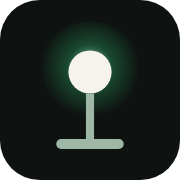
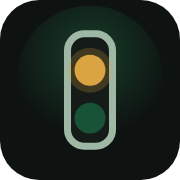
Rename to Standby + color-uniformity pass
- App identity is now "Standby": cue-light mark (amber standby lamp lit, green GO
  waiting) + Montserrat wordmark across welcome, sidebar, tab title, favicon,
  home-screen/PWA icons, manifest, feedback subject, calendar PRODID
- New shared components: Brand (mark + name) and a monochrome line-icon nav set
  (currentColor -> sage idle, emerald active), replacing the multicolor emoji nav
- Uniformity: group badges and calendar event-type colors harmonized into the
  favicon family (emerald / sage / teal / amber / olive); kept semantic colors
  (success, danger, warn) meaningful

Claude-Session: https://claude.ai/code/session_014L4J1Br48E1FFUTtkKHTks

diff --git a/src/components/icons.tsx b/src/components/icons.tsx
@@ -1,0 +1,105 @@
+/**
+ * Monochrome line-icon set for navigation — inherits `currentColor` so it
+ * tints with the nav state (sage when idle, emerald when active). Keeps the
+ * whole app in the favicon's restrained palette instead of full-color emoji.
+ */
+
+const P = {
+  stroke: 'currentColor',
+  strokeWidth: 1.7,
+  fill: 'none',
+  strokeLinecap: 'round' as const,
+  strokeLinejoin: 'round' as const,
+}
+
+export type IconName =
+  | 'hub'
+  | 'people'
+  | 'schedule'
+  | 'scenes'
+  | 'props'
+  | 'notes'
+  | 'script'
+  | 'cues'
+  | 'reports'
+  | 'settings'
+
+export function NavIcon({ name, size = 20 }: { name: IconName; size?: number }) {
+  return (
+    <svg width={size} height={size} viewBox="0 0 24 24" {...P} aria-hidden="true">
+      {ICONS[name]}
+    </svg>
+  )
+}
+
+const ICONS: Record<IconName, JSX.Element> = {
+  hub: (
+    <>
+      <rect x="3" y="3" width="7.5" height="7.5" rx="1.6" />
+      <rect x="13.5" y="3" width="7.5" height="7.5" rx="1.6" />
+      <rect x="3" y="13.5" width="7.5" height="7.5" rx="1.6" />
+      <rect x="13.5" y="13.5" width="7.5" height="7.5" rx="1.6" />
+    </>
+  ),
+  people: (
+    <>
+      <circle cx="9" cy="8" r="3.2" />
+      <path d="M3.5 19.5c0-3.1 2.5-5.3 5.5-5.3s5.5 2.2 5.5 5.3" />
+      <path d="M16.2 5.2a3 3 0 0 1 0 5.9" />
+      <path d="M17.5 14.4c2.2.5 3.9 2.3 3.9 5.1" />
+    </>
+  ),
+  schedule: (
+    <>
+      <rect x="3.5" y="5" width="17" height="15.5" rx="2.2" />
+      <path d="M3.5 9.5h17" />
+      <path d="M8 3v4M16 3v4" />
+    </>
+  ),
+  scenes: (
+    <>
+      <path d="M12 3.2 21 7.6l-9 4.4-9-4.4z" />
+      <path d="M3 12.2 12 16.6l9-4.4" />
+      <path d="M3 16.6 12 21l9-4.4" />
+    </>
+  ),
+  props: (
+    <>
+      <path d="M20.6 13.4 13 21a2 2 0 0 1-2.8 0l-6.7-6.7a2 2 0 0 1-.6-1.4V5.3a2 2 0 0 1 2-2h7.6a2 2 0 0 1 1.4.6l6.7 6.7a2 2 0 0 1 0 2.8z" />
+      <circle cx="7.7" cy="7.7" r="1.4" />
+    </>
+  ),
+  notes: (
+    <>
+      <path d="M4 20h4L18.5 9.5a2 2 0 0 0 0-2.8l-1.2-1.2a2 2 0 0 0-2.8 0L4 16z" />
+      <path d="M13.3 6.7l3 3" />
+    </>
+  ),
+  script: (
+    <>
+      <path d="M6.5 3.5H13l5 5V19a1.5 1.5 0 0 1-1.5 1.5h-10A1.5 1.5 0 0 1 5 19V5a1.5 1.5 0 0 1 1.5-1.5z" />
+      <path d="M13 3.5V9h5" />
+      <path d="M8.5 13h7M8.5 16.5h5" />
+    </>
+  ),
+  cues: (
+    <>
+      <path d="M9.5 17.5h5" />
+      <path d="M10.5 20.5h3" />
+      <path d="M12 3.5a6 6 0 0 0-3.6 10.8c.7.5 1.1 1.3 1.1 2.2h5c0-.9.4-1.7 1.1-2.2A6 6 0 0 0 12 3.5z" />
+    </>
+  ),
+  reports: (
+    <>
+      <rect x="5" y="4.5" width="14" height="16" rx="2.2" />
+      <rect x="9" y="3" width="6" height="3.4" rx="1.2" />
+      <path d="M8.5 11h7M8.5 14.5h5" />
+    </>
+  ),
+  settings: (
+    <>
+      <circle cx="12" cy="12" r="3.1" />
+      <path d="M12 2.6v2.6M12 18.8v2.6M4.2 4.2l1.9 1.9M17.9 17.9l1.9 1.9M2.6 12h2.6M18.8 12h2.6M4.2 19.8l1.9-1.9M17.9 6.1l1.9-1.9" />
+    </>
+  ),
+}

diff --git a/src/components/App.tsx b/src/components/App.tsx
@@ -4,6 +4,8 @@ import { useStore } from '../lib/store'
 import { getLastBackup, markBackedUp } from '../lib/storage'
 import { daysToOpening, cueToCueActive, CUE_WINDOW_DAYS } from '../lib/dates'
 import { ScrollToTop } from './ui'
+import { StandbyMark, APP_NAME, APP_TAGLINE } from './Brand'
+import { NavIcon, type IconName } from './icons'
 import { Welcome } from '../modules/Welcome'
 import { Hub } from '../modules/Hub'
 import { People } from '../modules/People'
@@ -16,16 +18,16 @@ import { CueToCue } from '../modules/CueToCue'
 import { Reports } from '../modules/Reports'
 import { Settings } from '../modules/Settings'
 
-const NAV = [
-  { to: '/hub', icon: '🎭', label: 'Production Hub' },
-  { to: '/people', icon: '👥', label: 'People' },
-  { to: '/schedule', icon: '🗓️', label: 'Schedule' },
-  { to: '/scenes', icon: '🎬', label: 'Scenes' },
-  { to: '/props', icon: '🎩', label: 'Props & Costumes' },
-  { to: '/line-notes', icon: '📝', label: 'Line Notes' },
-  { to: '/script', icon: '📄', label: 'Script' },
-  { to: '/reports', icon: '📋', label: 'Reports' },
-  { to: '/settings', icon: '⚙️', label: 'Settings' },
+const NAV: { to: string; icon: IconName; label: string }[] = [
+  { to: '/hub', icon: 'hub', label: 'Production Hub' },
+  { to: '/people', icon: 'people', label: 'People' },
+  { to: '/schedule', icon: 'schedule', label: 'Schedule' },
+  { to: '/scenes', icon: 'scenes', label: 'Scenes' },
+  { to: '/props', icon: 'props', label: 'Props & Costumes' },
+  { to: '/line-notes', icon: 'notes', label: 'Line Notes' },
+  { to: '/script', icon: 'script', label: 'Script' },
+  { to: '/reports', icon: 'reports', label: 'Reports' },
+  { to: '/settings', icon: 'settings', label: 'Settings' },
 ]
 
 export function App() {
@@ -45,9 +47,9 @@ export function App() {
   const cueHint =
     dOpen === null || cueActive ? undefined : `in ${dOpen - CUE_WINDOW_DAYS}d`
 
-  const nav = [
+  const nav: { to: string; icon: IconName; label: string; hint?: string }[] = [
     ...NAV.slice(0, 7), // Hub … Script
-    { to: '/cues', icon: '💡', label: 'Cue-to-Cue', hint: cueHint },
+    { to: '/cues', icon: 'cues', label: 'Cue-to-Cue', hint: cueHint },
     ...NAV.slice(7), // Reports, Settings
   ]
 
@@ -57,10 +59,14 @@ export function App() {
       <div className={`scrim ${menuOpen ? 'open' : ''}`} onClick={close} />
       <aside className={`sidebar ${menuOpen ? 'open' : ''}`}>
         <div className="brand">
-          <span className="brand-mark">🎭</span>
+          <span className="brand-mark" style={{ display: 'flex' }}>
+            <StandbyMark size={30} />
+          </span>
           <div>
-            <div className="brand-name">Stage Manager</div>
-            <div className="brand-sub">Prompt Book</div>
+            <div className="brand-name" style={{ fontFamily: 'var(--font-display)', letterSpacing: '0.1em', textTransform: 'uppercase' }}>
+              {APP_NAME}
+            </div>
+            <div className="brand-sub">{APP_TAGLINE}</div>
           </div>
         </div>
 
@@ -89,9 +95,9 @@ export function App() {
               to={n.to}
               className={({ isActive }) => `nav-link ${isActive ? 'active' : ''}`}
             >
-              <span className="nav-icon">{n.icon}</span>
+              <span className="nav-icon"><NavIcon name={n.icon} /></span>
               <span style={{ flex: 1 }}>{n.label}</span>
-              {'hint' in n && n.hint && <span className="nav-hint">{n.hint}</span>}
+              {n.hint && <span className="nav-hint">{n.hint}</span>}
             </NavLink>
           ))}
         </nav>
@@ -116,7 +122,7 @@ export function App() {
           <button className="icon-btn" onClick={() => setMenuOpen((o) => !o)} aria-label="Menu">
             ☰
           </button>
-          <strong>{production?.title ?? 'Stage Manager'}</strong>
+          <strong>{production?.title ?? APP_NAME}</strong>
           <span style={{ width: 24 }} />
         </div>
 

diff --git a/src/components/Brand.tsx b/src/components/Brand.tsx
@@ -1,0 +1,27 @@
+/** App identity — the Standby cue-light mark and name, used across the app. */
+
+export const APP_NAME = 'Standby'
+export const APP_TAGLINE = 'Prompt Book'
+
+/**
+ * Backstage cue light: amber "standby" lamp lit, green "GO" lamp waiting.
+ * `size` sets the rendered pixel box; the art is a 64×64 viewBox.
+ */
+export function StandbyMark({ size = 40 }: { size?: number }) {
+  const gid = `sb-glow-${size}`
+  return (
+    <svg width={size} height={size} viewBox="0 0 64 64" fill="none" aria-label="Standby">
+      <defs>
+        <radialGradient id={gid} cx="50%" cy="38%" r="55%">
+          <stop offset="0%" stopColor="#d9a441" stopOpacity="0.5" />
+          <stop offset="100%" stopColor="#d9a441" stopOpacity="0" />
+        </radialGradient>
+      </defs>
+      <circle cx="32" cy="26" r="23" fill={`url(#${gid})`} />
+      <rect x="21" y="9" width="22" height="46" rx="7" fill="#151b18" stroke="#9fb8a6" strokeWidth="2" />
+      <circle cx="32" cy="24" r="9" fill="#d9a441" opacity="0.25" />
+      <circle cx="32" cy="24" r="6" fill="#d9a441" />
+      <circle cx="32" cy="41" r="6" fill="#1c7a4d" opacity="0.55" />
+    </svg>
+  )
+}

diff --git a/src/styles/global.css b/src/styles/global.css
@@ -166,8 +166,16 @@ p {
 }
 .nav-icon {
   width: 20px;
-  text-align: center;
-  font-size: 1.05rem;
+  display: inline-flex;
+  align-items: center;
+  justify-content: center;
+  color: var(--text-faint);
+}
+.nav-link:hover .nav-icon {
+  color: var(--text-dim);
+}
+.nav-link.active .nav-icon {
+  color: var(--accent-strong);
 }
 .nav-hint {
   font-size: 0.66rem;
@@ -459,11 +467,12 @@ tbody tr:hover {
   color: var(--text-dim);
   white-space: nowrap;
 }
-.badge-Cast { color: #e9b7d6; border-color: rgba(233, 183, 214, 0.35); background: rgba(233, 183, 214, 0.08); }
-.badge-Crew { color: #9fd0e6; border-color: rgba(159, 208, 230, 0.35); background: rgba(159, 208, 230, 0.08); }
-.badge-Creative { color: #c8b0f0; border-color: rgba(200, 176, 240, 0.35); background: rgba(200, 176, 240, 0.08); }
-.badge-Production { color: #cdbf9a; border-color: rgba(205, 191, 154, 0.35); background: rgba(205, 191, 154, 0.08); }
-.badge-Musician { color: #8fdcc4; border-color: rgba(143, 220, 196, 0.35); background: rgba(143, 220, 196, 0.08); }
+/* Group badges — harmonized into the brand family (greens · sage · amber · olive). */
+.badge-Cast { color: #46b87f; border-color: rgba(70, 184, 127, 0.35); background: rgba(70, 184, 127, 0.08); }
+.badge-Crew { color: #9fb8a6; border-color: rgba(159, 184, 166, 0.35); background: rgba(159, 184, 166, 0.08); }
+.badge-Creative { color: #6cc3c0; border-color: rgba(108, 195, 192, 0.35); background: rgba(108, 195, 192, 0.08); }
+.badge-Production { color: #d9a441; border-color: rgba(217, 164, 65, 0.35); background: rgba(217, 164, 65, 0.08); }
+.badge-Musician { color: #bcc98a; border-color: rgba(188, 201, 138, 0.35); background: rgba(188, 201, 138, 0.08); }
 .badge-present { color: var(--success); }
 .badge-late { color: var(--warn); }
 .badge-absent { color: var(--danger); }

diff --git a/src/modules/Welcome.tsx b/src/modules/Welcome.tsx
@@ -2,6 +2,7 @@ import { useState } from 'react'
 import { useNavigate } from 'react-router-dom'
 import { useStore } from '../lib/store'
 import { ReqStar } from '../components/ui'
+import { StandbyMark, APP_NAME } from '../components/Brand'
 
 export function Welcome({ inShell = false }: { inShell?: boolean }) {
   const { createProduction, loadSampleProduction } = useStore()
@@ -31,10 +32,20 @@ export function Welcome({ inShell = false }: { inShell?: boolean }) {
       <div style={{ width: '100%', maxWidth: 460, textAlign: 'center' }}>
         {!inShell && (
           <>
-            <div style={{ fontSize: '3.4rem', filter: 'drop-shadow(0 0 14px rgba(47,174,107,.4))' }}>
-              🎭
+            <div style={{ display: 'flex', justifyContent: 'center', marginBottom: 6 }}>
+              <StandbyMark size={76} />
             </div>
-            <h1 style={{ fontSize: '2rem', marginBottom: 4 }}>Stage Manager</h1>
+            <h1
+              style={{
+                fontFamily: 'var(--font-display)',
+                fontSize: '2.5rem',
+                margin: '0 0 4px',
+                letterSpacing: '0.14em',
+                textTransform: 'uppercase',
+              }}
+            >
+              {APP_NAME}
+            </h1>
             <p className="muted" style={{ marginTop: 0 }}>
               Your prompt book, contact sheet, calling script, and report desk — in one place.
             </p>

diff --git a/src/modules/Schedule.tsx b/src/modules/Schedule.tsx
@@ -332,13 +332,14 @@ function sceneLabels(ids: string[] | undefined, scenes: Scene[]): string {
     .join(', ')
 }
 
+// Event-type accents, kept within the brand family for a uniform calendar.
 const TYPE_COLOR: Record<EventType, string> = {
-  Rehearsal: '#6ba4e0',
-  Performance: '#2fae6b',
-  Tech: '#c8b0f0',
-  Meeting: '#8fdcc4',
-  Fitting: '#e9b7d6',
-  Other: '#a49fba',
+  Rehearsal: '#9fb8a6', // sage
+  Performance: '#2fae6b', // emerald
+  Tech: '#d9a441', // amber
+  Meeting: '#6cc3c0', // teal
+  Fitting: '#bcc98a', // olive
+  Other: '#7f8d82', // muted
 }
 
 const MONTHS = [

diff --git a/index.html b/index.html
@@ -4,7 +4,7 @@
     <meta charset="UTF-8" />
     <meta name="viewport" content="width=device-width, initial-scale=1.0, viewport-fit=cover" />
     <meta name="theme-color" content="#0e1311" />
-    <title>Stage Manager</title>
+    <title>Standby</title>
     <meta name="description" content="Track and manage theatrical productions — people, schedule, attendance, and reports." />
     <link rel="icon" href="./favicon.svg" type="image/svg+xml" />
     <link rel="apple-touch-icon" href="./icon-180.png" />
@@ -12,7 +12,7 @@
     <!-- Home-screen behavior for phones -->
     <meta name="apple-mobile-web-app-capable" content="yes" />
     <meta name="apple-mobile-web-app-status-bar-style" content="black-translucent" />
-    <meta name="apple-mobile-web-app-title" content="Stage Manager" />
+    <meta name="apple-mobile-web-app-title" content="Standby" />
     <meta name="mobile-web-app-capable" content="yes" />
   </head>
   <body>

diff --git a/src/lib/ics.ts b/src/lib/ics.ts
@@ -52,7 +52,7 @@ export function eventsToICS(
   const lines: string[] = [
     'BEGIN:VCALENDAR',
     'VERSION:2.0',
-    'PRODID:-//Stage Manager//Schedule//EN',
+    'PRODID:-//Standby//Schedule//EN',
     'CALSCALE:GREGORIAN',
     `X-WR-CALNAME:${esc(prod.title)}`,
   ]

diff --git a/src/lib/store.tsx b/src/lib/store.tsx
@@ -351,7 +351,7 @@ export function StoreProvider({ children }: { children: ReactNode }) {
         try {
           const parsed = JSON.parse(json) as AppData
           if (!parsed || !Array.isArray(parsed.productions)) {
-            return { ok: false, error: 'File does not look like Stage Manager data.' }
+            return { ok: false, error: 'File does not look like Standby data.' }
           }
           const productions = parsed.productions.map(normalizeProduction)
           setData({

diff --git a/src/modules/Settings.tsx b/src/modules/Settings.tsx
@@ -139,7 +139,7 @@ export function Settings() {
         <button
           className="btn"
           onClick={() => {
-            const subject = 'Stage Manager — feedback'
+            const subject = 'Standby — feedback'
             const body =
               'What I was doing:\n\nWhat happened / what I wish it did:\n\nDevice & browser:\n'
             window.location.href = `mailto:?subject=${encodeURIComponent(subject)}&body=${encodeURIComponent(body)}`

diff --git a/README.md b/README.md
@@ -1,4 +1,4 @@
-# 🎭 Stage Manager
+# Standby — the stage manager's prompt book
 
 A web app that helps stage managers track and fully manage their productions —
 their prompt book, contact sheet, schedule, and report desk in one place.